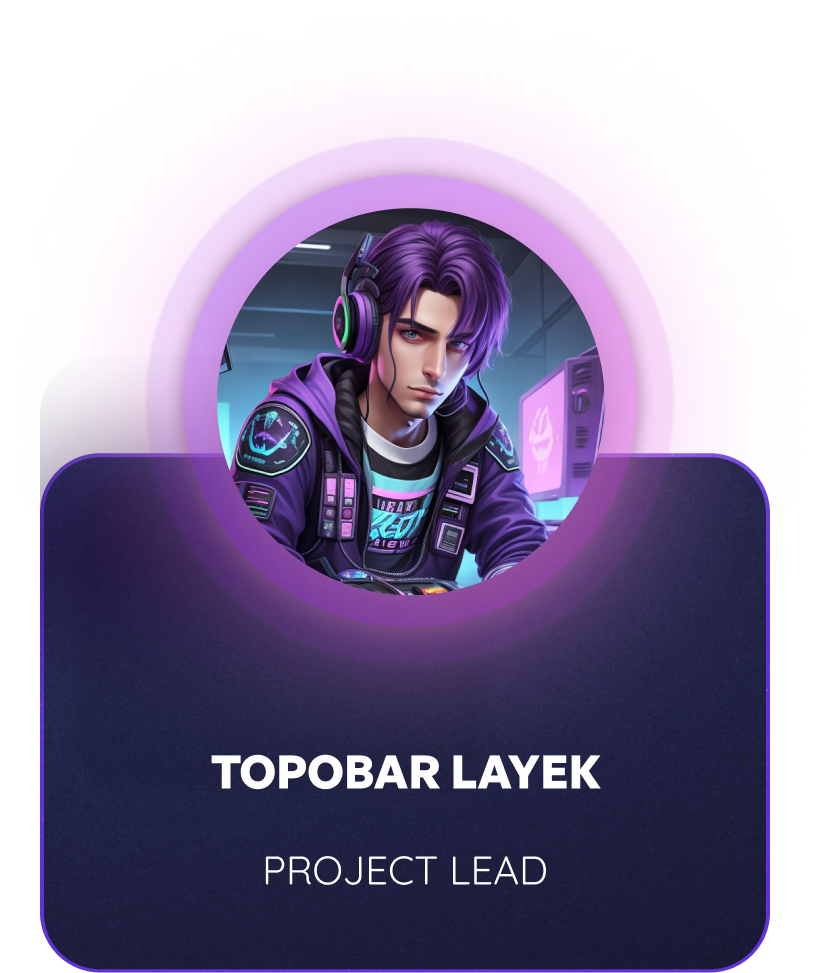
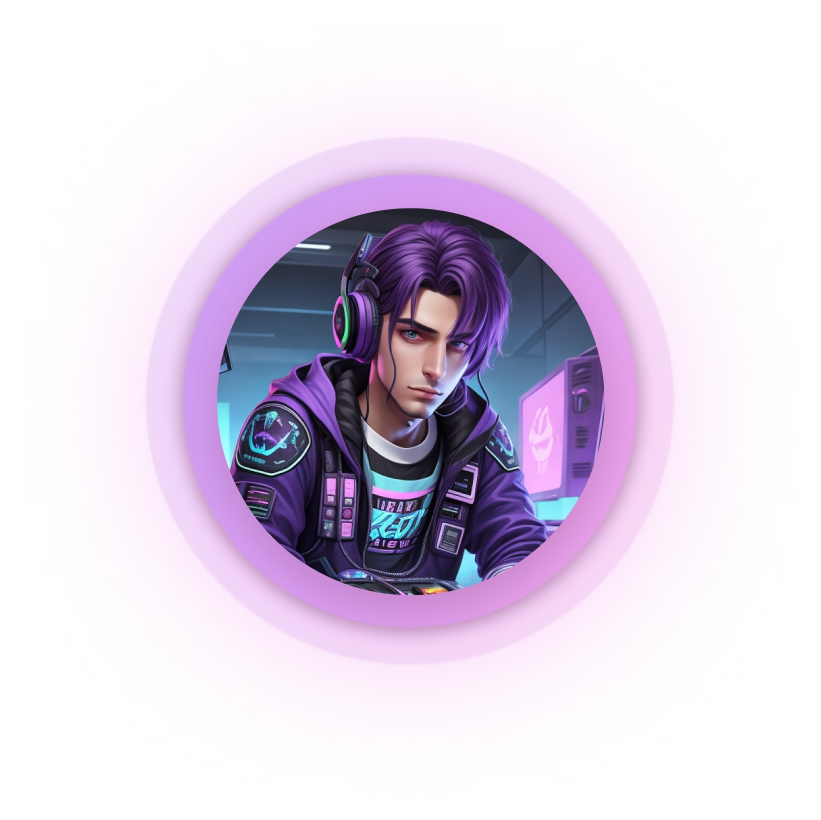
changes made

diff --git a/components/containers/our-teams.tsx b/components/containers/our-teams.tsx
@@ -8,94 +8,68 @@ import Image from "next/image";
 import { CardBody, CardContainer, CardItem } from "../ui/3d-card";
 
 export default function OurTeams() {
+  const teams = [
+    {
+      img: Team1,
+      name: "KARN CHAKERVERTY",
+      des: "CEO",
+    },
+    {
+      img: Team2,
+      name: "Christian Chalfoun",
+      des: "Adviser",
+    },
+    {
+      img: Team3,
+      name: "MUKESH MOHAPATRA",
+      des: "Adviser",
+    },
+    {
+      img: Team4,
+      name: "TOPOBAR LAYEK",
+      des: "PROJECT LEAD",
+    },
+    {
+      img: Team5,
+      name: "SIDHANT MAHATO",
+      des: "LEAD GAME DESIGNER",
+    },
+    {
+      img: Team6,
+      name: "Ehtisham Ul Haq",
+      des: "Blockchain Expert",
+    },
+  ];
+
   return (
     <section id="team" className="container space-y-10 py-10 lg:py-16">
       <div className="flex flex-col items-center gap-6 text-center">
         <h2>Our Team</h2>
       </div>
-      <div className="flex flex-col gap-5">
-        <div className="flex flex-col lg:flex-row items-center justify-center gap-5">
-          <CardContainer>
-            <CardBody>
-              <CardItem>
-                <Image
-                  src={Team1}
-                  alt="img"
-                  width={365}
-                  height={450}
-                  priority
-                />
-              </CardItem>
+      <div className="grid lg:grid-cols-3 gap-x-20 gap-y-64 pt-44">
+        {teams.map((item, index) => (
+          <CardContainer key={index} className="w-full">
+            <CardBody className="w-full h-auto">
+              <div
+                className="relative p-3 pt-28 lg:p-8 lg:pt-28 rounded-[30px] flex flex-col items-center space-y-4 border border-[#8C16E9]"
+                style={{
+                  background:
+                    "radial-gradient(172.27% 145.85% at -4.55% -1.7%, rgba(89, 106, 197, 0.30) 0%, rgba(89, 106, 197, 0.00) 100%), #191934",
+                }}
+              >
+                <CardItem translateZ="50" className="absolute bottom-14">
+                  <Image src={item.img} alt="img" />
+                </CardItem>
+                <CardItem translateZ="50">
+                  <h5 className="text-2xl uppercase">{item.name}</h5>
+                </CardItem>
+                <CardItem translateZ="50">
+                  <p className="text-lg text-muted uppercase">{item.des}</p>
+                </CardItem>
+              </div>
             </CardBody>
           </CardContainer>
-          <CardContainer>
-            <CardBody>
-              <CardItem>
-                <Image
-                  src={Team2}
-                  alt="img"
-                  width={365}
-                  height={450}
-                  priority
-                />
-              </CardItem>
-            </CardBody>
-          </CardContainer>
-          <CardContainer>
-            <CardBody>
-              <CardItem>
-                <Image
-                  src={Team3}
-                  alt="img"
-                  width={365}
-                  height={450}
-                  priority
-                />
-              </CardItem>
-            </CardBody>
-          </CardContainer>
-        </div>
-        <div className="flex flex-col lg:flex-row items-center justify-center gap-5">
-          <CardContainer>
-            <CardBody>
-              <CardItem>
-                <Image
-                  src={Team4}
-                  alt="img"
-                  width={365}
-                  height={450}
-                  priority
-                />
-              </CardItem>
-            </CardBody>
-          </CardContainer>
-          <CardContainer>
-            <CardBody>
-              <CardItem>
-                <Image
-                  src={Team5}
-                  alt="img"
-                  width={365}
-                  height={450}
-                  priority
-                />
-              </CardItem>
-            </CardBody>
-          </CardContainer>
-          <CardContainer>
-            <CardBody>
-              <CardItem>
-                <Image
-                  src={Team6}
-                  alt="img"
-                  width={365}
-                  height={450}
-                  priority
-                />
-              </CardItem>
-            </CardBody>
-          </CardContainer>
-        </div>
+        ))}
       </div>
     </section>
   );

diff --git a/components/containers/community.tsx b/components/containers/community.tsx
@@ -98,33 +98,30 @@ export default function OurCommunity() {
           </div>
 
           <CardContainer className="w-full inter-var">
-            <CardBody className="w-full h-auto group/card">
-              <div className="lg:h-[464px] rounded-2xl max-lg:space-y-4 bg-[radial-gradient(172.27%_145.85%_at_-4.55%_-1.7%,rgba(89,106,197,0.30)0%,rgba(89,106,197,0.00)100%)] p-4 flex flex-col justify-between">
-                <div className="flex flex-col lg:flex-row items-start lg:items-end max-lg:gap-4 justify-between">
-                  <div className="lg:w-2/3 space-y-5">
-                    <CardItem
-                      as="p"
-                      translateZ="50"
-                      className="text-[27px] font-bold"
-                    >
-                      Follow us on Twitter
-                    </CardItem>
-                    <p className="text-muted">
-                      Follow us on twitter to get latest updates and
-                      announcements
-                    </p>
-                  </div>
-                  <CardItem translateZ="50">
-                    <Link href="https://twitter.com/_KultGames">
-                      <Button>
-                        <HiOutlineArrowRightCircle />
-                        Follow Now
-                      </Button>
-                    </Link>
+            <CardBody className="relative group/card w-full lg:h-[464px] rounded-2xl max-lg:space-y-4 bg-[radial-gradient(172.27%_145.85%_at_-4.55%_-1.7%,rgba(89,106,197,0.30)0%,rgba(89,106,197,0.00)100%)] p-4 flex flex-col justify-between">
+              <div className="flex flex-col lg:flex-row items-start lg:items-end max-lg:gap-4 justify-between">
+                <div className="lg:w-2/3 space-y-5">
+                  <CardItem
+                    as="h5"
+                    translateZ="100"
+                    className="text-[27px] font-bold"
+                  >
+                    Follow us on Twitter
                   </CardItem>
+                  <p className="text-muted">
+                    Follow us on twitter to get latest updates and announcements
+                  </p>
                 </div>
-                <Image src={TwitterImg} alt="img" className="w-full" />
+                <CardItem translateZ="50">
+                  <Link href="https://twitter.com/_KultGames">
+                    <Button>
+                      <HiOutlineArrowRightCircle />
+                      Follow Now
+                    </Button>
+                  </Link>
+                </CardItem>
               </div>
+              <Image src={TwitterImg} alt="img" className="w-full" />
             </CardBody>
           </CardContainer>
         </div>

diff --git a/components/containers/our-games.tsx b/components/containers/our-games.tsx
@@ -1,3 +1,5 @@
+"use client"
+
 import {
   Carousel,
   CarouselContent,
@@ -12,6 +14,8 @@ import { HiOutlineDevicePhoneMobile } from "react-icons/hi2";
 import GradImg from "@/public/imgs/our-games-grad.png";
 import Link from "next/link";
 import { MdMonitor } from "react-icons/md";
+import ButtonSecondary from "../shared/button-secondary";
+import Autoplay from "embla-carousel-autoplay"
 
 export default function OurGames() {
   return (
@@ -19,7 +23,11 @@ export default function OurGames() {
       <Image src={GradImg} alt="img" className="absolute left-0 -z-10" />
       <div className="container space-y-12">
         <h2>Experience our games</h2>
-        <Carousel opts={{ loop: true }}>
+        <Carousel opts={{ loop: true }} plugins={[
+        Autoplay({
+          delay: 4000,
+        }),
+      ]}>
           <CarouselContent className="-ml-8">
             {games.map((item, index) => (
               <CarouselItem key={index} className="pl-8 w-full">
@@ -67,16 +75,12 @@ export default function OurGames() {
                       <div className="absolute inset-0 bg-[radial-gradient(383.94%_338.14%_at_213.36%_-151.22%,rgba(127,139,210,0.30)0%,rgba(89,106,197,0.00)100%)] p-6 flex flex-col justify-between">
                         <p className="text-[27px] font-bold">Platform</p>
                         <div className="flex items-center gap-4">
-                          <div className="bg-[radial-gradient(66.67%_103.95%_at_50%_-42.76%,#BBA5F4_0%,#5F33D6_100%)] p-[1px] rounded-full">
-                            <div className="bg-[#191934] px-4 py-1 rounded-full flex items-center gap-2">
-                              <CiGlobe /> Web
-                            </div>
-                          </div>
-                          <div className="bg-[radial-gradient(66.67%_103.95%_at_50%_-42.76%,#BBA5F4_0%,#5F33D6_100%)] p-[1px] rounded-full">
-                            <div className="bg-[#191934] px-4 py-1 rounded-full flex items-center gap-2">
-                              <HiOutlineDevicePhoneMobile /> Mobile
-                            </div>
-                          </div>
+                          <ButtonSecondary>
+                            <CiGlobe /> Web
+                          </ButtonSecondary>
+                          <ButtonSecondary>
+                            <HiOutlineDevicePhoneMobile /> Mobile
+                          </ButtonSecondary>
                         </div>
                       </div>
                     </div>

diff --git a/components/shared/button-secondary.tsx b/components/shared/button-secondary.tsx
@@ -1,0 +1,16 @@
+import React from "react";
+
+export default function ButtonSecondary({
+  children,
+}: {
+  children: React.ReactNode;
+}) {
+  return (
+    <button className="relative inline-flex h-9 overflow-hidden rounded-full p-[1px]">
+      <span className="absolute inset-[-1000%] animate-[spin_2s_linear_infinite] bg-[conic-gradient(from_90deg_at_50%_50%,#BBA5F4_0%,#5F33D6_50%,#BBA5F4_100%)]" />
+      <span className="inline-flex gap-2 h-full w-full cursor-pointer items-center justify-center rounded-full bg-[#191934] px-4 py-1 text-sm font-medium text-white backdrop-blur-3xl">
+        {children}
+      </span>
+    </button>
+  );
+}

diff --git a/components/ui/3d-card.tsx b/components/ui/3d-card.tsx
@@ -85,7 +85,7 @@ export const CardBody = ({
   return (
     <div
       className={cn(
-        "h-96 w-96 [transform-style:preserve-3d]  [&>*]:[transform-style:preserve-3d]",
+        "w-full h-auto [transform-style:preserve-3d]  [&>*]:[transform-style:preserve-3d]",
         className
       )}
     >
